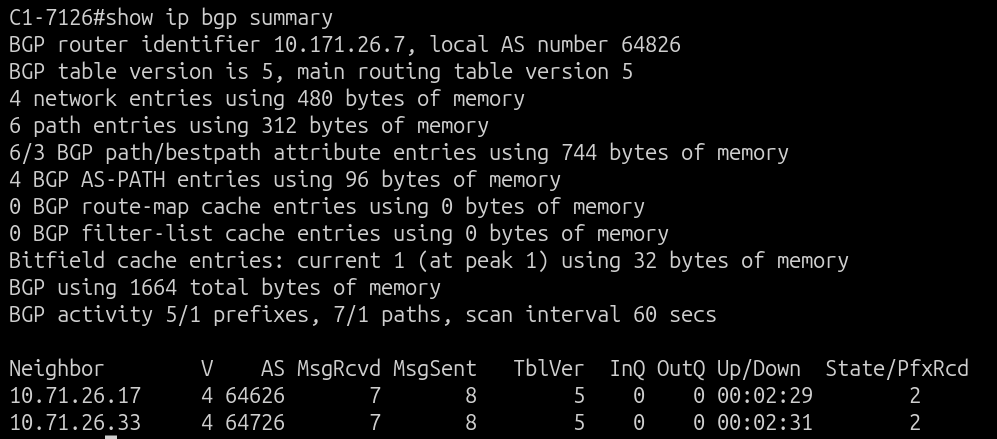
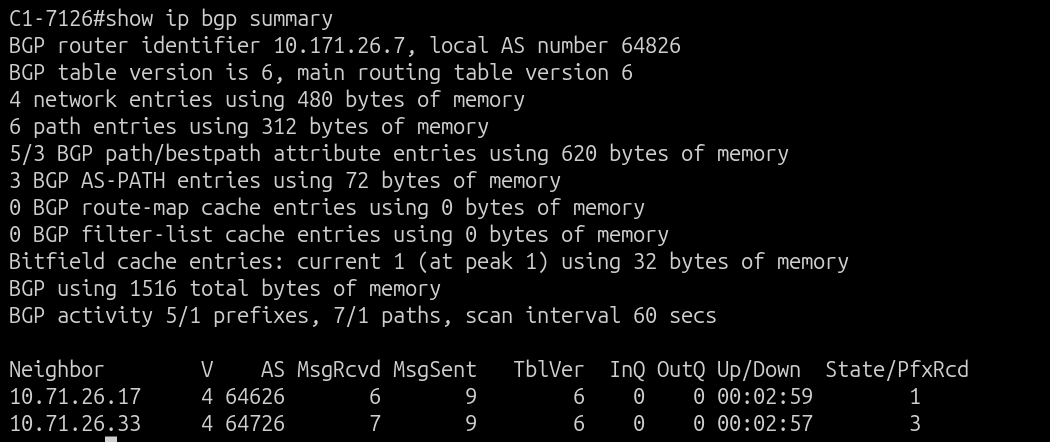
fix: change image because B2 next-hop-self change.

diff --git a/sections/part_D.tex b/sections/part_D.tex
@@ -491,8 +491,14 @@ B2 & B3 & iBGP & Established \\
 \end{tabular}
 \end{table}
 
-% Anh bang chung BGP Summary
-% Doi ten anh theo file thuc te tren Overleaf
+Trong các ảnh summary dưới đây,
+tất cả các peer đều có số prefix
+ở cột \texttt{State/PfxRcd}, xác nhận các phiên
+đang ở trạng thái Established.
+A2 nhận ba prefix từ B1; ở chiều quảng bá
+từ AS A ra ngoài, B1 và C1 đều nhận một prefix
+từ router biên tương ứng của AS A.
+Mỗi router có bốn network entry trong bảng BGP.
 
 \partzeroimage
 {images/configuration/part_D/A2_summary.png}
@@ -594,6 +600,26 @@ LAN-D & 10.171.126.192/26 & B2, C1 \\
 {images/configuration/part_D/B2_bgp.png}
 {Bảng BGP trên router B2}
 {fig:partD-B2-bgp}
+
+Trên A3, bảng BGP có đủ bốn mạng LAN /26.
+LAN-B được chọn qua A2 với AS\_PATH \texttt{64726},
+còn LAN-C được chọn trực tiếp qua C1
+với AS\_PATH \texttt{64826}.
+Riêng LAN-D có hai đường hợp lệ:
+qua A2 với AS\_PATH \texttt{64726}
+và qua C1 với AS\_PATH \texttt{64826}.
+Ở thời điểm chưa áp dụng chính sách Phần E,
+A3 chọn đường eBGP trực tiếp qua C1 tới LAN-D.
+
+Trên B2, LAN-B và LAN-D đều là các tuyến
+do chính router đưa vào BGP, có Weight 32768
+và được chọn là best path.
+Next-hop của LAN-D là \texttt{10.71.26.42},
+tương ứng với D1 trong static route.
+LAN-A được học qua B1 \texttt{10.171.26.4},
+còn LAN-C được học qua B3 \texttt{10.171.26.6}.
+Hai bảng không có prefix Loopback0
+hay mạng liên kết /30 được đưa vào BGP.
 
 
 % ==========================================

diff --git a/sections/part_E.tex b/sections/part_E.tex
@@ -157,6 +157,16 @@ A3 cũng chọn đường trực tiếp tới C1.
 Như vậy, đường ngắn hơn qua ISP C
 đang được ưu tiên tới LAN-C.
 
+Đối với LAN-D, A2 có đường qua B1
+với AS\_PATH \texttt{64726}
+và đường qua A3 với AS\_PATH \texttt{64826}.
+Khi các thuộc tính ưu tiên trước đó bằng nhau,
+A2 chọn đường eBGP trực tiếp qua B1.
+Trên A3, đường tới LAN-D được chọn
+là eBGP trực tiếp qua C1.
+Vì vậy, trước policy, hai router biên
+có thể chọn hai ISP khác nhau cho cùng một LAN.
+
 \partzeroimage
 {images/configuration/part_E/A2_bgp_after.png}
 {Bảng BGP trên A2 sau khi áp dụng chính sách}
@@ -173,9 +183,13 @@ tới LAN-B, LAN-C và LAN-D qua B1
 Trên A3, các route tương ứng qua A2
 \texttt{10.171.26.2} cũng có LOCAL\_PREF 200
 và được đánh dấu là đường tốt nhất.
+Đối với LAN-D, AS\_PATH của đường qua B
+trên cả A2 và A3 là \texttt{64726},
+cho thấy AS B quảng bá tuyến LAN-D
+do chính AS này phát sinh.
 Riêng LAN-C, đường qua C1 có LOCAL\_PREF 100
 vẫn xuất hiện trên A3 như một lựa chọn dự phòng.
-Điều này cho thấy LOCAL\_PREF cao hơn
+Với LAN-C, LOCAL\_PREF cao hơn
 đã khiến đường qua B được chọn
 dù AS\_PATH dài hơn.
 
